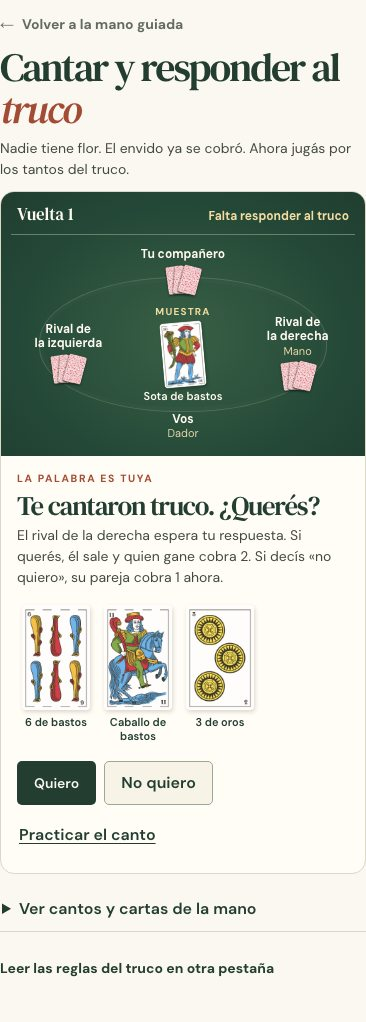
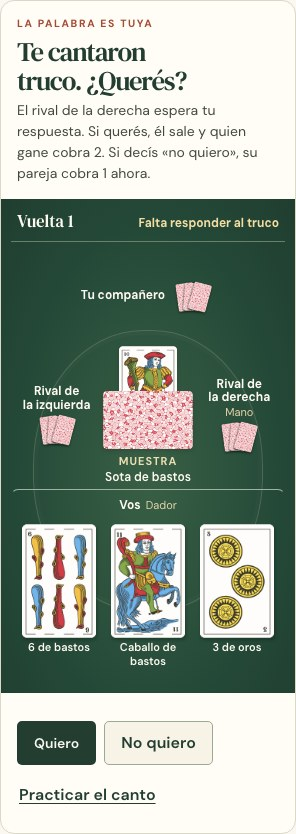
Mostrar la mano propia junto a Vos en las mesas guiadas

diff --git a/src/components/mesa/mesa.css b/src/components/mesa/mesa.css
@@ -156,24 +156,43 @@
 }
 #pregunta:focus-visible { outline: 2px solid var(--accent); outline-offset: 3px; }
 #guia-turno, #aviso-mesa { font-size: clamp(14px, 1.4vw, 16px); }
-.mesa-naipes {
+.tapete .asiento-0 {
+  width: 100%;
+  flex-direction: column;
+  border-top: 1px solid #9cb49d;
+  padding: 8px 2px;
+}
+.tapete .asiento-0 .asiento-nombre,
+.tapete .asiento-0 .asiento-cartas, .mesa-naipes {
   display: flex;
-  align-items: start;
-  gap: clamp(4px, 1vw, 12px);
-  margin-block: 12px 8px;
+  align-items: center;
+  justify-content: center;
+  gap: clamp(5px, 1vw, 12px);
 }
-.mesa-naipes .ap-carta {
-  color: var(--ink);
-  flex: 0 1 30%;
-  max-width: 100px;
+.tapete .asiento-0 .asiento-cartas { align-items: end; }
+.mesa-naipes { align-items: start; }
+.tapete .mesa-naipes .ap-carta {
+  flex: none;
+  margin: 0;
+  padding: 3px;
+  border: 2px solid transparent;
+  width: clamp(84px, 9.8vw, 124px);
 }
-.mesa-naipes img { box-shadow: 1px 2px 4px #4e432b33; }
-.mesa-naipes button:hover, .mesa-naipes .ap-elegida,
-.mesa-naipes [aria-pressed="true"] {
-  border-color: #907346;
-  background: #f3ebd8;
+.tapete .mesa-naipes .ap-carta img { width: 100%; }
+.tapete .mesa-naipes :is(button:hover, [aria-pressed="true"], .ap-elegida) {
+  border-color: var(--oro);
+  background: #173d2b;
 }
-.mesa-naipes button:focus-visible { outline-color: var(--accent); }
+.mesa-jugada small {
+  display: block;
+  color: var(--oro);
+  font-weight: 700;
+}
+.mesa-naipes:not(:empty) + .mesa-jugada {
+  border-left: 1px solid #9cb49d;
+  padding-left: clamp(8px, 1.2vw, 16px);
+}
+.mesa-naipes:empty { display: none; }
 #decisiones, #cuenta-mesa > div {
   display: flex;
   align-items: stretch;
@@ -203,6 +222,13 @@
 .mesa-consulta a { min-height: 44px; }
 @media (min-width: 780px) {
   .mesa-columnas { grid-template-columns: minmax(0, 1.12fr) minmax(0, 1fr); }
+  .mesa-ejercicio {
+    grid-template-rows: 1fr auto auto 1fr;
+    grid-template-areas: "tapete ." "tapete consigna" "tapete controles" "tapete .";
+  }
+  .mesa-ejercicio > .tapete { grid-area: tapete; }
+  .mesa-consigna { grid-area: consigna; padding-bottom: 0; }
+  .mesa-controles { grid-area: controles; padding-top: 0; }
   .tapete { min-height: 415px; padding: 16px; }
   .tapete-asientos { gap: 8px 0; }
   .asiento { padding: 6px 8px; }
@@ -211,7 +237,6 @@
   .guiada { width: calc(100% - 24px); padding-top: 6px; }
   .mesa-portada { margin-bottom: 12px; }
   .mesa-portada p { font-size: 14px; }
-  .mesa-naipes .ap-carta { max-width: 78px; }
 }
 #siguiente-leccion, #leccion-truco > .text-link { margin-top: 14px; min-height: 44px; }
 #acciones-truco { padding-left: 1.6em; margin-block: 8px 14px; line-height: 1.55; }

diff --git a/src/components/mesa/mesa.ts b/src/components/mesa/mesa.ts
@@ -126,23 +126,20 @@ export function montarMesa() {
       decisiones.append(boton("Repartir de nuevo", repartir), boton("Reproducir la mano", () => avanzarReplay(0), "ap-opcion"));
     }
 
-    if (paso || enJuego || reproduccion) {
-      for (const id of mesa.cartas) {
-        let accion: (() => void) | undefined;
-        if (enJuego) accion = () => { if (juego.jugar(id)) pintar(true); };
-        if (confirmar) accion = () => {
-          const seleccion = juego.marcar(id);
-          carta.setAttribute("aria-pressed", String(seleccion.includes(id)));
-          confirmar!.disabled = !seleccion.length;
-        };
-        const carta = mostrarCarta(base, id, accion);
-        if (confirmar) carta.setAttribute("aria-pressed", String(vista.seleccion.includes(id)));
-        if (paso?.tipo === "responder-total" && vista.seleccion.includes(id)) carta.classList.add("ap-elegida");
-        if (enJuego) carta.setAttribute("aria-label", "Jugar " + nombre(id));
-        cartas.append(carta);
-      }
+    for (const id of mesa.cartas) {
+      let accion: (() => void) | undefined;
+      if (enJuego) accion = () => { if (juego.jugar(id)) pintar(true); };
+      if (confirmar) accion = () => {
+        const seleccion = juego.marcar(id);
+        carta.setAttribute("aria-pressed", String(seleccion.includes(id)));
+        confirmar!.disabled = !seleccion.length;
+      };
+      const carta = mostrarCarta(base, id, accion);
+      if (confirmar) carta.setAttribute("aria-pressed", String(vista.seleccion.includes(id)));
+      if (paso?.tipo === "responder-total" && vista.seleccion.includes(id)) carta.classList.add("ap-elegida");
+      if (enJuego) carta.setAttribute("aria-label", "Jugar " + nombre(id));
+      cartas.append(carta);
     }
-    cartas.hidden = !cartas.childElementCount;
     mostrarAviso(vista);
     const tema = temas.find((t) => t.titulo === vista.tema);
     el("regla-mesa").textContent = tema?.regla ?? (enJuego ? comparar.regla :

diff --git a/src/components/probabilidad/Tapete.tsx b/src/components/probabilidad/Tapete.tsx
@@ -33,15 +33,15 @@ export function Tapete({ mesa, enRepaso, base, seleccionada, seleccionar, primer
         const quedan = 3 - jugadas.filter(jugada => jugada.asiento === i).length;
         const activo = mesa.turno === i;
         return <div key={i} className={"asiento asiento-" + i + (activo ? " asiento-activo" : "")} role="group" aria-label={etiqueta}>
-          <div className="prob-asiento-nombre"><h3>{etiqueta}</h3><span className="asiento-papel">{mesa.mano === i ? "Mano" : mesa.dador === i ? "Dador" : ""}</span></div>
+          <div className="asiento-nombre"><h3>{etiqueta}</h3><span className="asiento-papel">{mesa.mano === i ? "Mano" : mesa.dador === i ? "Dador" : ""}</span></div>
           <div className="asiento-cartas">
-            {i === 0 && mesa.cartas.length > 0 && <div className="prob-mano" role="group" aria-label="Tus cartas en mano">
+            {i === 0 && mesa.cartas.length > 0 && <div className="mesa-naipes" role="group" aria-label="Tus cartas en mano">
               {mesa.cartas.map((propia, n) => activo
                 ? <button type="button" className="ap-carta" key={propia} ref={n === 0 ? primeraCarta : undefined}
                     aria-pressed={seleccionada === propia} onClick={() => seleccionar(propia)}>{naipe(propia)}</button>
                 : <div className="ap-carta" key={propia}>{naipe(propia)}</div>)}
             </div>}
-            {carta ? <div className="prob-jugada">
+            {carta ? <div className="mesa-jugada">
                 {i === 0 && <small>Jugada</small>}
                 <div className="ap-carta">{naipe(carta)}</div>
               </div>

diff --git a/src/components/probabilidad/probabilidad.css b/src/components/probabilidad/probabilidad.css
@@ -50,43 +50,8 @@
   align-content: start;
   row-gap: clamp(8px, 1.2vw, 16px);
 }
-.prob-interactiva .tapete .ap-carta img {
+.prob-interactiva .mesa-jugada .ap-carta img {
   width: clamp(49px, 6.4vw, 82px);
-}
-.prob-interactiva .asiento-0 {
-  width: 100%;
-  flex-direction: column;
-  border-top: 1px solid #9cb49d;
-  padding: 8px 2px;
-}
-.prob-interactiva .asiento-0 .prob-asiento-nombre,
-.prob-interactiva .asiento-0 .asiento-cartas, .prob-mano {
-  display: flex;
-  align-items: center;
-  justify-content: center;
-  gap: clamp(5px, 1vw, 12px);
-}
-.prob-interactiva .asiento-0 .asiento-cartas { align-items: end; }
-.prob-interactiva .prob-mano .ap-carta {
-  flex: none;
-  margin: 0;
-  padding: 3px;
-  border: 2px solid transparent;
-  width: clamp(84px, 9.8vw, 124px);
-}
-.prob-interactiva .prob-mano .ap-carta img { width: 100%; }
-.prob-interactiva .prob-mano button:is(:hover, [aria-pressed="true"]) {
-  border-color: var(--oro);
-  background: #173d2b;
-}
-.prob-jugada small {
-  display: block;
-  color: var(--oro);
-  font-weight: 700;
-}
-.prob-mano + .prob-jugada {
-  border-left: 1px solid #9cb49d;
-  padding-left: clamp(8px, 1.2vw, 16px);
 }
 .prob-muestra {
   display: grid;

diff --git a/src/components/mesa/tapete.ts b/src/components/mesa/tapete.ts
@@ -53,9 +53,10 @@ export function pintarTapete(base: string, mesa: VistaAsiento, { enReparto, finD
     asiento.classList.toggle("asiento-activo", !cerrada && !anuncio && !enReparto && turno === i);
     asiento.classList.toggle("asiento-ganador", !!ganador);
     asiento.querySelector(".asiento-papel")!.textContent = papeles.join(" · ");
-    const cartas = asiento.querySelector(".asiento-cartas")!;
+    const cartas = asiento.querySelector(".cartas-vuelta")!;
     cartas.replaceChildren();
     const jugada = vuelta.jugadas.find((j) => j.asiento === i);
+    if (i === 0) asiento.querySelector<HTMLElement>(".mesa-jugada")!.hidden = !jugada;
     if (jugada) cartas.append(mostrarCarta(base, jugada.carta));
     else if (i !== 0) cartas.append(abanico(base, 3 - jugadas.filter((j) => j.asiento === i).length));
   });
